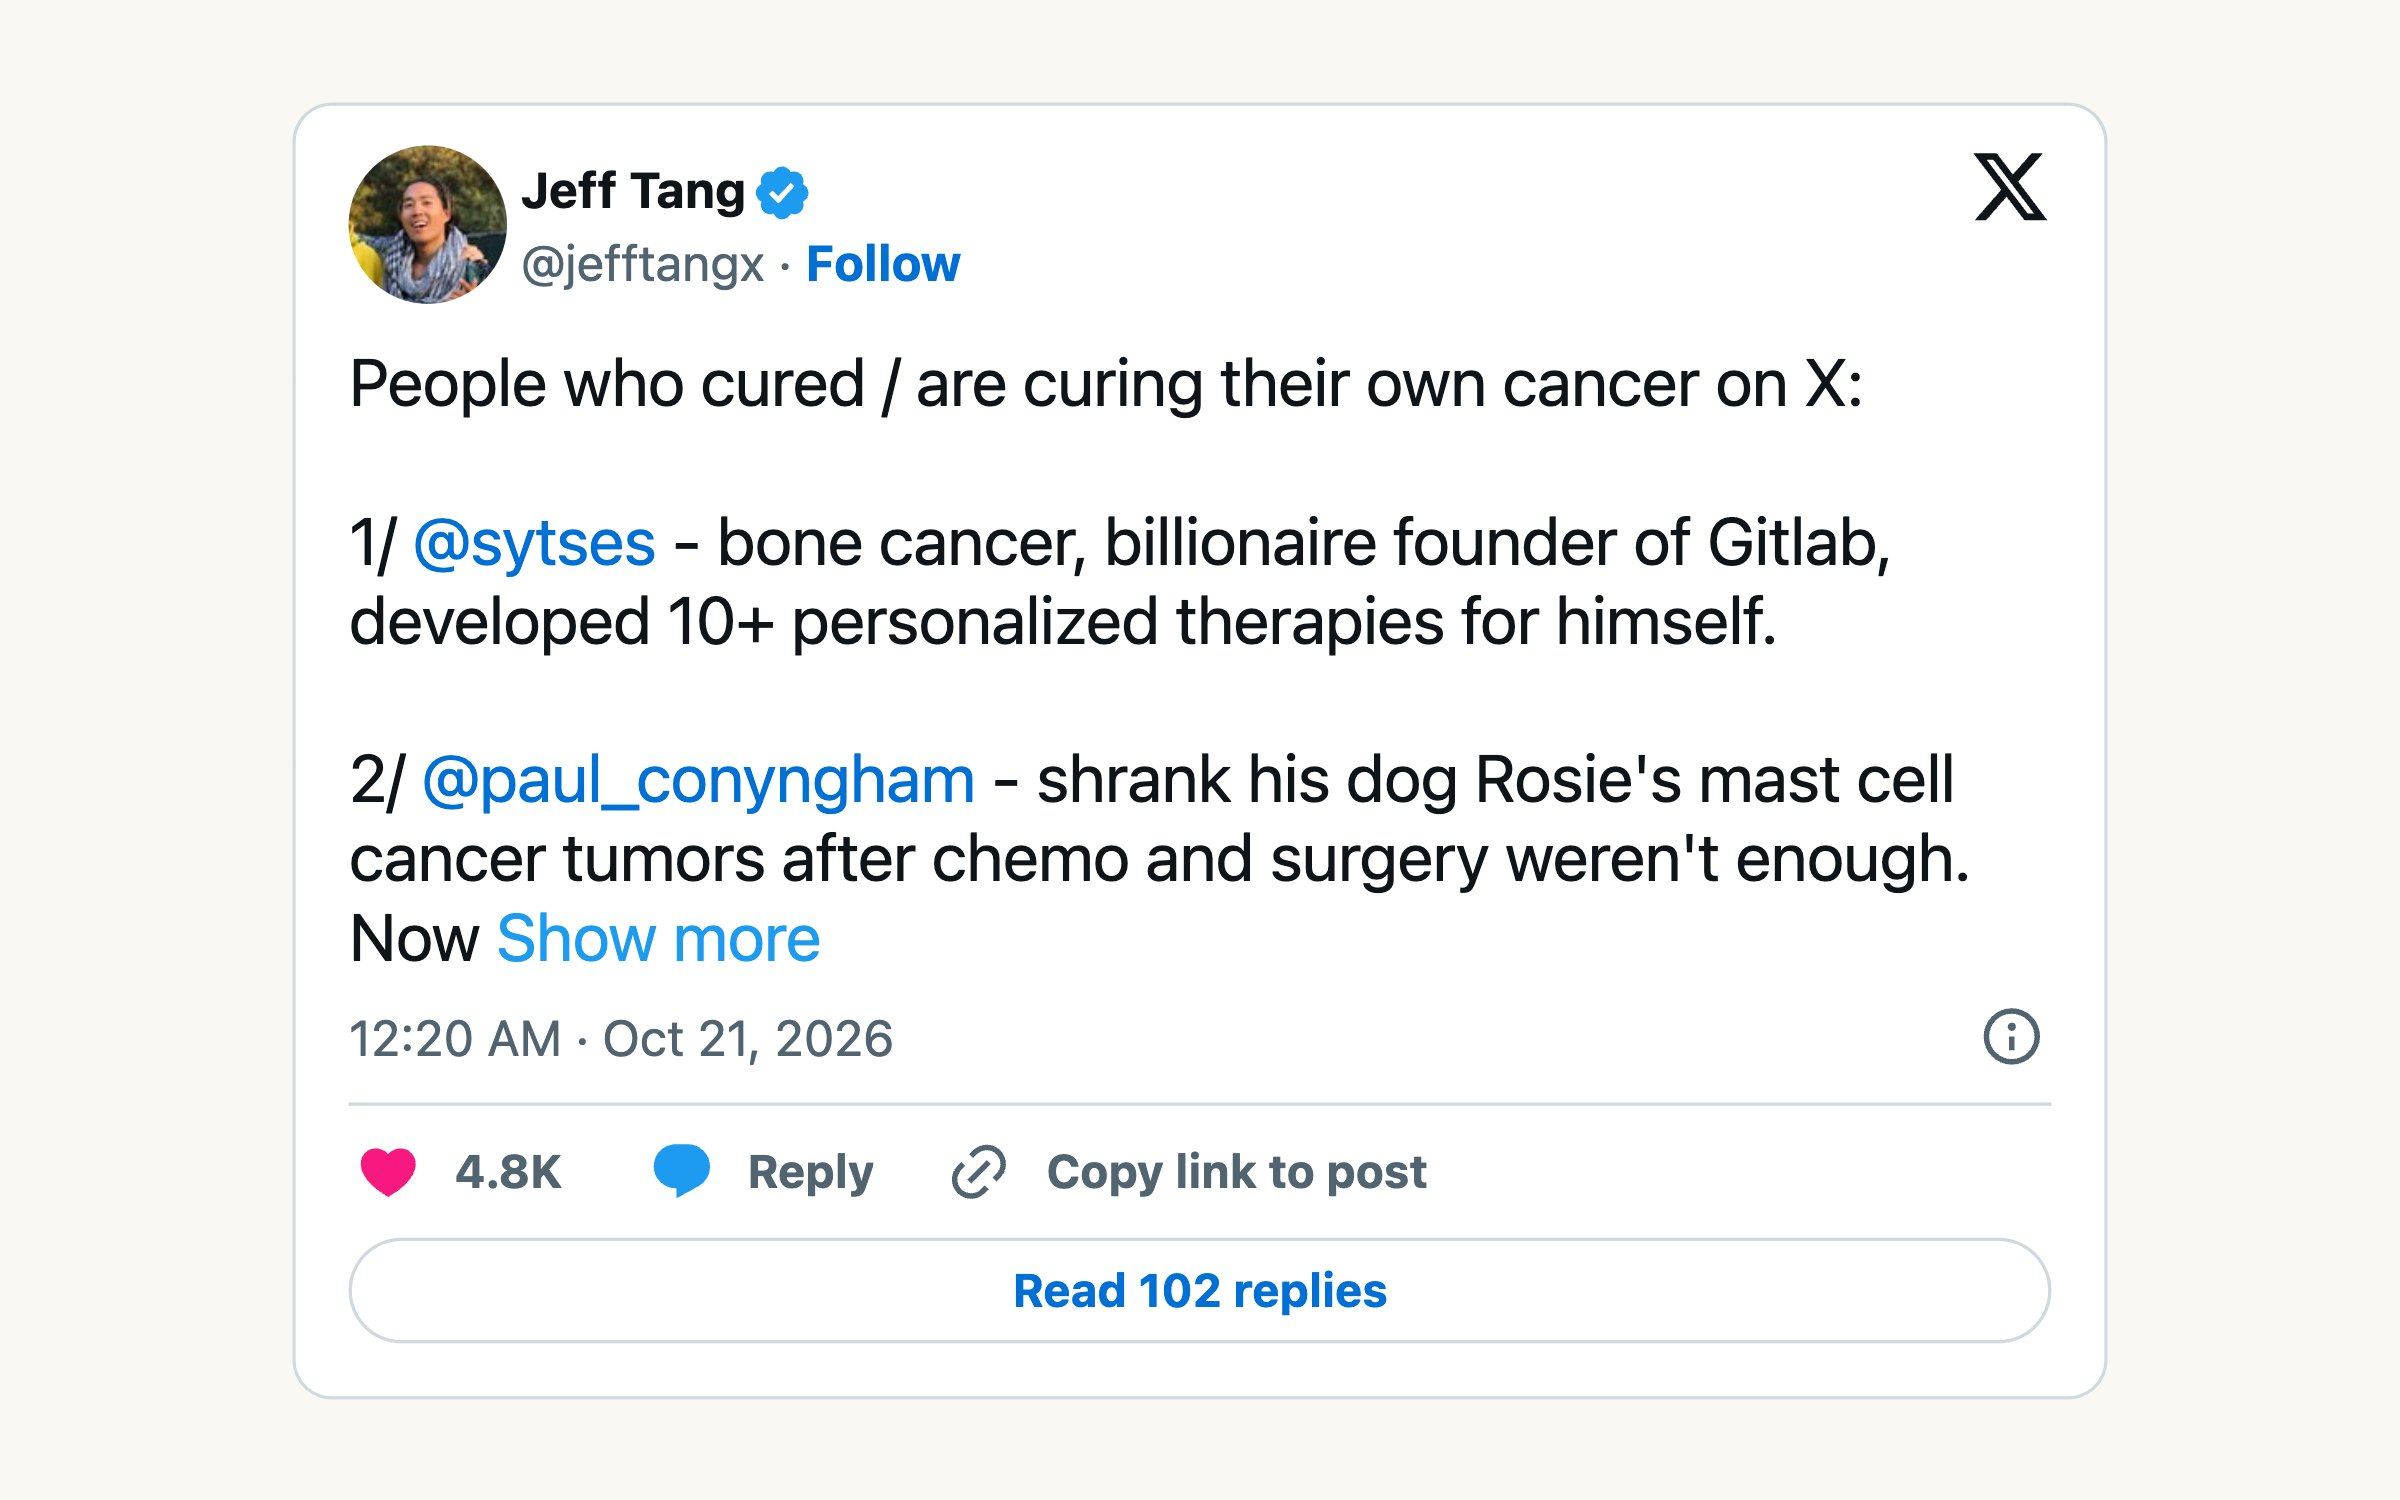
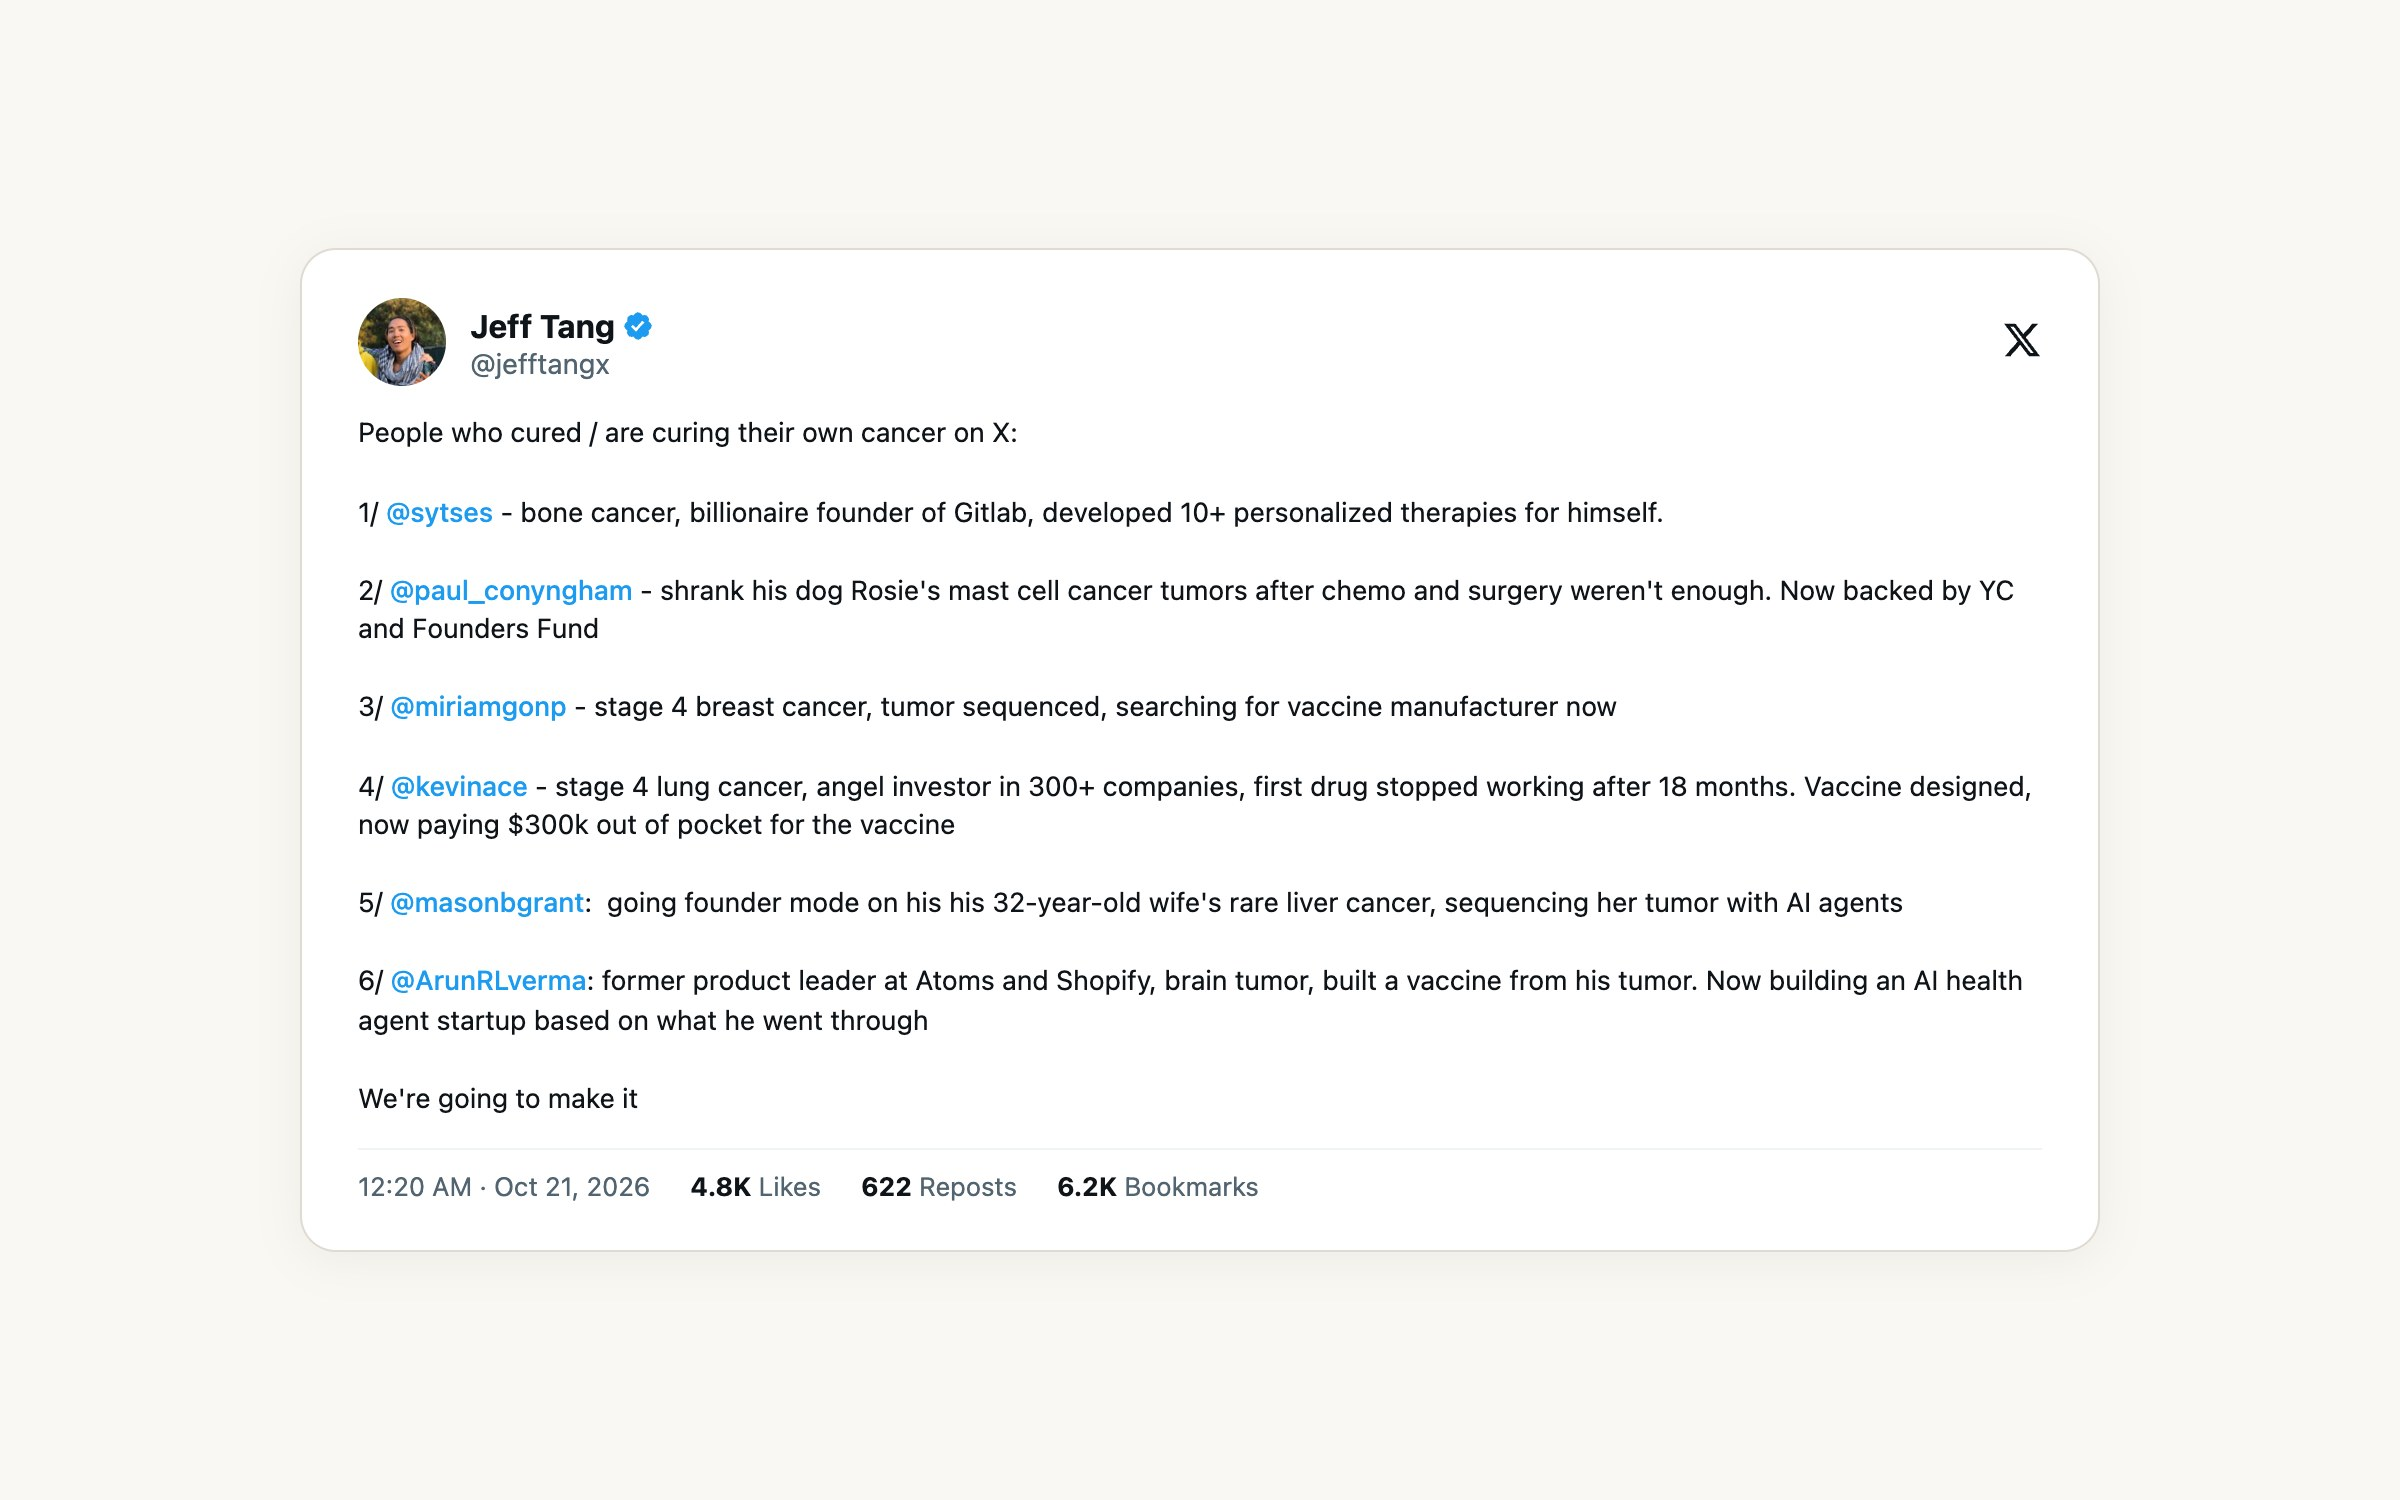
Display full post content in reader viewer and gallery thumbnail
Renders the complete, unabridged post directly in the viewer with
rich author info, clickable mentions, engagement stats, and formatted
body text instead of Twitter's truncated embed widget. Captures the
full post into the gallery thumbnail as well.

diff --git a/gallery/app.js b/gallery/app.js
@@ -76,7 +76,41 @@
       <p class="tag">${esc(p.note || p.author)}</p>
     </li>`).join('') || '<li class="empty">No posts yet.</li>';
 
+  function renderPost(p) {
+    const formattedText = esc(p.text || '')
+      .replace(/@([a-zA-Z0-9_]+)/g, '<a class="mention" href="https://x.com/$1" target="_blank" rel="noopener">@$1</a>');
+    return `
+      <article class="post-card">
+        <header class="post-header">
+          <a class="post-author-link" href="${esc(p.authorUrl)}" target="_blank" rel="noopener">
+            ${p.authorAvatar ? `<img class="post-avatar" src="${esc(p.authorAvatar)}" alt="${esc(p.authorName || p.author)}" width="48" height="48">` : ''}
+            <div class="post-author-meta">
+              <div class="post-author-name">
+                <span>${esc(p.authorName || p.author)}</span>
+                ${p.verified ? `<span class="post-badge" title="Verified"><svg viewBox="0 0 24 24" width="16" height="16" fill="#1d9bf0"><path d="M22.25 12c0-1.43-.88-2.67-2.19-3.34.46-1.39.2-2.9-.81-3.91s-2.52-1.27-3.91-.81c-.66-1.31-1.91-2.19-3.34-2.19s-2.67.88-3.33 2.19c-1.4-.46-2.91-.2-3.92.81s-1.26 2.52-.8 3.91c-1.31.67-2.2 1.91-2.2 3.34s.89 2.67 2.2 3.34c-.46 1.39-.21 2.9.8 3.91s2.52 1.26 3.91.81c.67 1.31 1.91 2.19 3.34 2.19s2.68-.88 3.34-2.19c1.39.45 2.9.2 3.91-.81s1.27-2.52.81-3.91c1.31-.67 2.19-1.91 2.19-3.34zm-11.71 4.2L6.8 12.46l1.41-1.42 2.26 2.26 4.8-5.23 1.47 1.36-6.2 6.77z"/></svg></span>` : ''}
+              </div>
+              ${p.authorHandle ? `<div class="post-author-handle">@${esc(p.authorHandle)}</div>` : ''}
+            </div>
+          </a>
+          <a class="post-platform-link" href="${esc(p.url)}" target="_blank" rel="noopener" aria-label="Open on ${PLATFORM[p.platform] || 'platform'}" title="Open on ${PLATFORM[p.platform] || 'platform'}">
+            ${ICON[p.platform] || ''}
+          </a>
+        </header>
+        <div class="post-body">${formattedText}</div>
+        <footer class="post-footer">
+          ${p.date ? `<time class="post-date">${esc(p.date)}</time>` : ''}
+          <div class="post-stats">
+            ${p.likes ? `<span><b>${esc(p.likes)}</b> Likes</span>` : ''}
+            ${p.reposts ? `<span><b>${esc(p.reposts)}</b> Reposts</span>` : ''}
+            ${p.bookmarks ? `<span><b>${esc(p.bookmarks)}</b> Bookmarks</span>` : ''}
+            ${p.replies ? `<span><b>${esc(p.replies)}</b> Replies</span>` : ''}
+          </div>
+        </footer>
+      </article>`;
+  }
+
   const frame = $('frame');
+  const postView = $('post-view');
   const items = [
     ...sites.map((s) => ({ hash: s.slug, kind: 'site', item: s })),
     ...videos.map((v) => ({ hash: `videos/${v.slug}`, kind: 'video', item: v })),
@@ -106,6 +140,8 @@
     if (!open) {
       document.title = tab === 'posts' ? 'Posts · GoodDesigns' : tab === 'videos' ? 'Videos · GoodDesigns' : 'GoodDesigns';
       frame.removeAttribute('src');
+      postView.hidden = true;
+      postView.innerHTML = '';
       // A tab opened for the first time starts at its top, or where the switch pins if the page was scrolled past that.
       if (wasOpen || prev !== tab) scrollTo(0, scrolls[tab] ?? Math.min(scrolls[prev] ?? 0, tabStart()));
       return;
@@ -113,18 +149,29 @@
     const { kind, item } = items[i];
     const name = kind === 'site' ? item.name : item.title;
     $('back').href = tabHash[tab];
-    $('viewer').dataset.kind = kind === 'site' ? 'site' : item.platform;
+    $('viewer').dataset.kind = kind === 'site' ? 'site' : kind === 'post' ? 'post' : item.platform;
     document.title = `${name} · GoodDesigns`;
-    frame.title = kind === 'site' ? `${name} preview` : name;
     $('back').setAttribute('aria-label', `Back to the GoodDesigns gallery from ${name}`);
     const out = kind === 'site' ? srcUrl(item) : item.url;
-    const label = kind === 'site' ? 'View source' : `Open on ${PLATFORM[item.platform]}`;
+    const label = kind === 'site' ? 'View source' : `Open on ${PLATFORM[item.platform] || 'platform'}`;
     $('v-src').href = out;
     $('v-src-label').textContent = label;
     $('v-src-icon').setAttribute('d', kind === 'site' ? 'M7 6 3 10l4 4M13 6l4 4-4 4' : 'M8.5 4.5H4.5v11h11v-4M11.5 3.5h5v5M16.5 3.5l-7.5 7.5');
     $('v-src').setAttribute('aria-label', `${label} for ${name} (opens in a new tab)`);
-    const target = kind === 'site' ? `sites/${item.slug}/` : embedUrl(item);
-    if (frame.getAttribute('src') !== target) frame.src = target;
+
+    if (kind === 'post') {
+      frame.hidden = true;
+      frame.removeAttribute('src');
+      postView.hidden = false;
+      postView.innerHTML = renderPost(item);
+    } else {
+      postView.hidden = true;
+      postView.innerHTML = '';
+      frame.hidden = false;
+      frame.title = kind === 'site' ? `${name} preview` : name;
+      const target = kind === 'site' ? `sites/${item.slug}/` : embedUrl(item);
+      if (frame.getAttribute('src') !== target) frame.src = target;
+    }
   }
   addEventListener('hashchange', route);
   // The switch is pinned once its top edge reaches the line 17px down, just past where it sticks.

diff --git a/gallery/app.css b/gallery/app.css
@@ -62,6 +62,26 @@ a { color: inherit; }
 .viewer[data-kind="youtube"] #frame { width: min(100vw - 48px, (100vh - 112px) * 16 / 9); height: auto; aspect-ratio: 16 / 9; border-radius: 10px; background: #000; }
 .viewer[data-kind="x"] #frame { width: min(100vw - 24px, 560px); height: calc(100vh - 96px); margin-bottom: 48px; background: transparent; color-scheme: normal; }
 
+/* Posts display as a dedicated full-text reading experience. */
+.viewer[data-kind="post"] { display: flex; justify-content: center; align-items: flex-start; overflow-y: auto; -webkit-overflow-scrolling: touch; background: var(--bg); padding: 56px 20px 120px; }
+.post-reader { width: 100%; max-width: 680px; margin: 0 auto; }
+.post-card { background: var(--card); border: 1px solid var(--line); border-radius: 16px; padding: 36px 40px; box-shadow: 0 4px 24px rgba(21, 20, 18, 0.05); }
+.post-header { display: flex; align-items: center; justify-content: space-between; margin-bottom: 24px; }
+.post-author-link { display: flex; align-items: center; gap: 14px; text-decoration: none; }
+.post-author-link:hover .post-author-name span { text-decoration: underline; }
+.post-avatar { width: 48px; height: 48px; border-radius: 50%; object-fit: cover; border: 1px solid var(--line); }
+.post-author-name { display: flex; align-items: center; gap: 5px; font-weight: 700; font-size: 16px; color: var(--ink); }
+.post-badge { display: inline-flex; }
+.post-author-handle { font-size: 14px; color: var(--muted); }
+.post-platform-link { color: var(--muted); display: inline-flex; transition: color .15s ease; }
+.post-platform-link:hover { color: var(--accent); }
+.post-body { font-size: 16px; line-height: 1.6; color: var(--ink); white-space: pre-wrap; word-break: break-word; }
+.post-body .mention { color: #1d9bf0; text-decoration: none; font-weight: 500; }
+.post-body .mention:hover { text-decoration: underline; }
+.post-footer { margin-top: 24px; padding-top: 18px; border-top: 1px solid var(--line); display: flex; flex-wrap: wrap; align-items: center; justify-content: space-between; gap: 14px; font-size: 14px; color: var(--muted); }
+.post-stats { display: flex; flex-wrap: wrap; gap: 16px; }
+.post-stats b { color: var(--ink); }
+
 /* Two floating buttons over the full-screen preview. */
 .float { position: fixed; left: 20px; bottom: 20px; z-index: 10; display: flex; gap: 8px; }
 .fab { display: inline-flex; align-items: center; gap: 7px; height: 40px; padding: 0 16px 0 13px; border-radius: 999px; font: 500 14px/1 var(--sans); text-decoration: none; background: var(--card); color: var(--ink); border: 1px solid rgba(21, 20, 18, 0.1); box-shadow: 0 1px 2px rgba(21, 20, 18, 0.1), 0 6px 18px rgba(21, 20, 18, 0.16); transition: background .15s ease, color .15s ease, transform .15s ease; }
@@ -77,6 +97,9 @@ a { color: inherit; }
   .tabs { top: 12px; margin-bottom: 40px; }
   .grid { grid-template-columns: 1fr; }
   .viewer[data-kind="youtube"] #frame { width: 100vw; border-radius: 0; }
+  .viewer[data-kind="post"] { padding: 24px 14px 100px; }
+  .post-card { padding: 22px 18px; border-radius: 12px; }
+  .post-body { font-size: 15px; }
   .float { left: 12px; bottom: 12px; }
   .fab { height: 36px; padding: 0 14px 0 11px; font-size: 13px; }
 }

diff --git a/gallery/index.html b/gallery/index.html
@@ -37,6 +37,7 @@
 
   <section id="viewer" class="viewer" hidden>
     <iframe id="frame" title="Site preview" allow="autoplay; encrypted-media; picture-in-picture; fullscreen" allowfullscreen></iframe>
+    <div id="post-view" class="post-reader" hidden></div>
     <nav class="float" aria-label="Viewer">
       <a class="fab" id="back" href="#/">
         <svg viewBox="0 0 20 20" width="16" height="16" aria-hidden="true"><path d="M3 9.2 10 3l7 6.2M5 7.6V17h3.6v-4.6h2.8V17H15V7.6" fill="none" stroke="currentColor" stroke-width="1.7" stroke-linecap="round" stroke-linejoin="round"/></svg>
